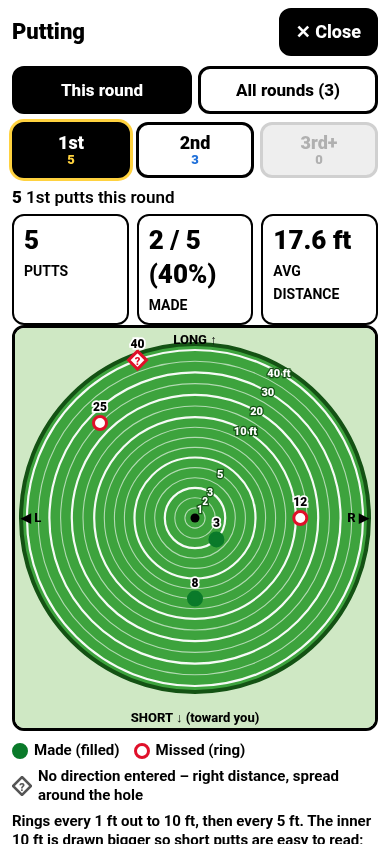
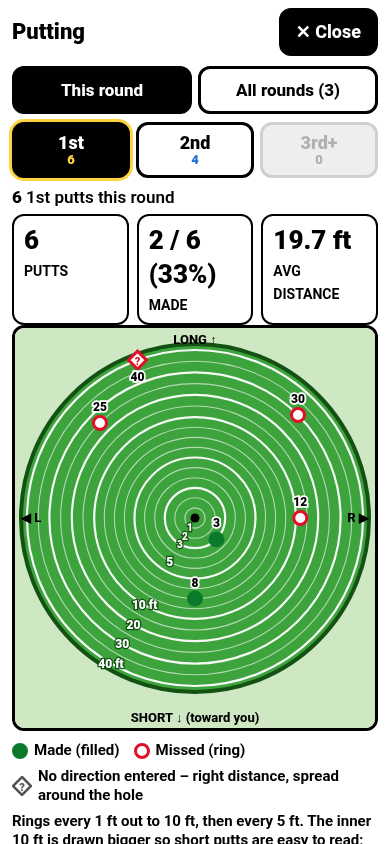
v18: 2nd/3rd+ putts on a 10 ft close-up green (linear 1 ft rings), >10 ft on the edge with ›, dots nudged apart

diff --git a/tests/focused.js b/tests/focused.js
@@ -19,7 +19,8 @@ const BASE = process.env.BASE_URL || 'http://127.0.0.1:8765/', SHOTS = process.e
         { par: 3, finished: true, rows: [R(170, 'tee'), { dist: 8, loc: 'holed', dir: 'short', pen: false }] },
         { par: 4, finished: true, rows: [R(400, 'tee'), R(150, 'fairway'), R(40, 'green'), { dist: 6, loc: 'holed', dir: 'long', pen: false }] },
         { par: 4, finished: true, rows: [R(380, 'tee'), R(140, 'fairway'), { dist: 3, loc: 'holed', dir: 'shortright', pen: false }] },
-        { par: 5, finished: true, rows: [R(520, 'tee'), R(250, 'fairway'), R(90, 'fairway'), { dist: 12, loc: 'green', dir: 'right', pen: false }, { dist: 1.5, loc: 'holed', dir: 'left', pen: false }] }] },
+        { par: 5, finished: true, rows: [R(520, 'tee'), R(250, 'fairway'), R(90, 'fairway'), { dist: 12, loc: 'green', dir: 'right', pen: false }, { dist: 1.5, loc: 'holed', dir: 'left', pen: false }] },
+        { par: 3, finished: true, rows: [R(170, 'tee'), { dist: 30, loc: 'green', dir: 'longright', pen: false }, { dist: 14, loc: 'holed', dir: 'long', pen: false }] }] },
       { v: 3, dv: 2, id: 'rold', date: '2026-10-01T14:00:00.000Z', course: 'Older', baseline: 'pga', holes: [H(4, 400, 5)] }]));
   });
   await page.reload();
@@ -61,36 +62,50 @@ const BASE = process.env.BASE_URL || 'http://127.0.0.1:8765/', SHOTS = process.e
   console.log('✓ delete from History');
   // Putting green
   await page.click('#histlist [data-act="open"][data-id="rputt"]');
-  assert.match(await page.textContent('[data-act="map"][data-v="putt"]'), /^8\s*Putts – tap for map\s*1st putts made 2\/5/);
+  assert.match(await page.textContent('[data-act="map"][data-v="putt"]'), /^10\s*Putts – tap for map\s*1st putts made 2\/6/);
   await page.click('[data-act="map"][data-v="putt"]'); await page.waitForSelector('#puttmap');
   const pb = await page.$$eval('#puttbtns .pnbtn', bs => bs.map(b => [b.getAttribute('data-v'), +b.getAttribute('data-n'), b.disabled, b.classList.contains('sel')]));
-  assert.deepStrictEqual(pb, [['1', 5, false, true], ['2', 3, false, false], ['3', 0, true, false]]);
+  assert.deepStrictEqual(pb, [['1', 6, false, true], ['2', 4, false, false], ['3', 0, true, false]]);
   const dots1 = await page.$$eval('#puttmap .pdot2', ds => ds.map(d => [+d.getAttribute('data-ft'), d.getAttribute('data-made'), d.getAttribute('data-dir'), d.getAttribute('data-kind')]));
-  assert.deepStrictEqual(dots1, [[25, '0', 'longleft', 'dir'], [8, '1', 'short', 'dir'], [40, '0', '', 'nodir'], [3, '1', 'shortright', 'dir'], [12, '0', 'right', 'dir']]);
-  assert.match(await page.textContent('#mapsum'), /^5 1st putts this round/);
-  const st = await page.textContent('#puttstats'); assert.ok(st.includes('2 / 5 (40%)') && st.includes('17.6 ft'), st);
+  assert.deepStrictEqual(dots1, [[25, '0', 'longleft', 'dir'], [8, '1', 'short', 'dir'], [40, '0', '', 'nodir'], [3, '1', 'shortright', 'dir'], [12, '0', 'right', 'dir'], [30, '0', 'longright', 'dir']]);
+  assert.match(await page.textContent('#mapsum'), /^6 1st putts this round/);
+  const st = await page.textContent('#puttstats'); assert.ok(st.includes('2 / 6 (33%)') && st.includes('19.7 ft'), st);
   const bands = await page.$$eval('#puttbands tr[data-band]', ts => ts.map(t => [...t.querySelectorAll('td')].map(d => d.textContent).join('|')));
-  assert.deepStrictEqual(bands, ['0-3 ft|0|–|–', '3-6 ft|1|1/1|100%', '6-10 ft|1|1/1|100%', '10-20 ft|1|0/1|0%', '20+ ft|2|0/2|0%']);
-  const lbl = await page.$$eval('#puttmap .plbl', ts => ts.map(t => t.textContent)); assert.deepStrictEqual(lbl.slice().sort(), ['12', '25', '3', '40', '8'].sort());
+  assert.deepStrictEqual(bands, ['0-3 ft|0|–|–', '3-6 ft|1|1/1|100%', '6-10 ft|1|1/1|100%', '10-20 ft|1|0/1|0%', '20+ ft|3|0/3|0%']);
+  const lbl = await page.$$eval('#puttmap .plbl', ts => ts.map(t => t.textContent)); assert.deepStrictEqual(lbl.slice().sort(), ['12', '25', '3', '40', '8', '30'].sort());
   const geo = await page.evaluate(() => { const c = [...document.querySelectorAll('#puttmap .pring')].map(r => [+r.getAttribute('data-ft'), +r.getAttribute('r')]); return c; });
   const r10 = geo.find(g => g[0] === 10)[1], rmax = Math.max(...geo.map(g => g[1])); assert.ok(Math.abs(r10 / rmax - 0.6) < 0.01, 'inner 10 ft = 60% of radius');
   assert.deepStrictEqual(geo.map(g => g[0]).sort((a, b) => a - b), [1, 2, 3, 4, 5, 6, 7, 8, 9, 10, 15, 20, 25, 30, 35, 40]);
   // the 3 ft putt sits shortright at radius r(3)
   const d3 = await page.$eval('#puttmap .pdot2[data-ft="3"]', c => [+c.getAttribute('cx'), +c.getAttribute('cy')]); const r3 = Math.hypot(d3[0] - 180, d3[1] - 190);
   assert.ok(Math.abs(r3 - 168 * 0.6 * 0.3) < 0.2 && d3[0] > 180 && d3[1] > 190, 'shortright at 3 ft ' + d3);
-  console.log('✓ putting: 1st 5 / 2nd 3 / 3rd+ 0, made 2/5 (40%), avg 17.6 ft, bands, rings 1-10 + every 5 to 40, 10 ft = 60% radius, dots by dir/ft, ? for no dir');
+  console.log('✓ putting: 1st 6 / 2nd 4 / 3rd+ 0, made 2/6 (33%), avg 19.7 ft, bands, rings 1-10 + every 5 to 40, 10 ft = 60% radius, dots by dir/ft, ? for no dir');
   await page.screenshot({ path: SHOTS + '/37-putting-1st.png' });
+  const noOverlap = async (tag) => { const c = await page.$$eval('#puttmap .pdot2', ds => ds.map(d => { const b = d.getBBox(); return [b.x + b.width / 2, b.y + b.height / 2]; }));
+    for (let i = 0; i < c.length; i++) for (let j = 0; j < i; j++) assert.ok(Math.hypot(c[i][0] - c[j][0], c[i][1] - c[j][1]) >= 14, tag + ' dots overlap ' + c[i] + ' / ' + c[j]); return c.length; };
+  await noOverlap('1st');
+  assert.strictEqual(await page.getAttribute('#puttmap', 'data-scale'), 'wide');
   await page.click('#puttbtns [data-v="2"]'); assert.match(await page.getAttribute('#puttbtns [data-v="2"]', 'class'), /sel/);
   const d2 = await page.$$eval('#puttmap .pdot2', ds => ds.map(d => [+d.getAttribute('data-ft'), d.getAttribute('data-made'), d.getAttribute('data-dir')]));
-  assert.deepStrictEqual(d2, [[4, '1', 'right'], [6, '1', 'long'], [1.5, '1', 'left']]); assert.ok((await page.textContent('#puttstats')).includes('3 / 3 (100%)'));
+  assert.deepStrictEqual(d2, [[4, '1', 'right'], [6, '1', 'long'], [1.5, '1', 'left'], [14, '1', 'long']]); assert.ok((await page.textContent('#puttstats')).includes('4 / 4 (100%)'));
+  // close-up: linear 10 ft green, 1 ft rings labelled 1-10, 14 ft at the edge with ›
+  assert.strictEqual(await page.getAttribute('#puttmap', 'data-scale'), 'close');
+  const g2 = await page.$$eval('#puttmap .pring', rs => rs.map(r => [+r.getAttribute('data-ft'), +r.getAttribute('r')]).sort((a, b) => a[0] - b[0]));
+  assert.deepStrictEqual(g2.map(g => g[0]), [1, 2, 3, 4, 5, 6, 7, 8, 9, 10]); g2.forEach(g => assert.ok(Math.abs(g[1] - 16.8 * g[0]) < 0.1, 'linear ' + g));
+  assert.deepStrictEqual(await page.$$eval('#puttmap text.ring', ts => ts.map(t => t.textContent).sort((a, b) => parseInt(a) - parseInt(b))), ['1', '2', '3', '4', '5', '6', '7', '8', '9', '10 ft']);
+  const p4 = await page.$eval('#puttmap .pdot2[data-ft="4"]', c => [+c.getAttribute('cx'), +c.getAttribute('cy')]); assert.ok(Math.abs(p4[0] - (180 + 67.2)) < 0.2 && Math.abs(p4[1] - 190) < 0.2, '4 ft right ' + p4);
+  const p14 = await page.$eval('#puttmap .pdot2[data-ft="14"]', c => [+c.getAttribute('cx'), +c.getAttribute('cy'), c.getAttribute('data-beyond')]); assert.ok(Math.abs(Math.hypot(p14[0] - 180, p14[1] - 190) - 168) < 0.5 && p14[2] === '1', '14 ft at edge ' + p14);
+  assert.ok((await page.$$eval('#puttmap .plbl', ts => ts.map(t => t.textContent))).includes('14›'));
+  await noOverlap('2nd');
   await page.screenshot({ path: SHOTS + '/37b-putting-2nd.png' });
-  console.log('✓ 2nd putts use the row Dir; 3rd+ greyed out (none this round)');
+  console.log('✓ 2nd putts: 10 ft close-up (linear, rings 1-10), 14 ft on edge with ›, row Dir used, no overlapping dots; 3rd+ greyed out (none this round)');
   await page.click('[data-act="mapscope"][data-v="all"]'); await page.click('#puttbtns [data-v="1"]');
+  await page.click('#puttbtns [data-v="2"]'); const n2 = await noOverlap('All 2nd'); await page.screenshot({ path: SHOTS + '/37c-putting-2nd-all.png' }); await page.click('#puttbtns [data-v="1"]');
   const allExp = await page.evaluate(() => { const c = { 1: 0, 2: 0, 3: 0 }; window.__golf.rounds().forEach(r => SG.summarize(r).puttList.forEach(p => c[SG.puttGroup(p.n)]++)); return c; });
   const pbAll = await page.$$eval('#puttbtns .pnbtn', bs => bs.map(b => [+b.getAttribute('data-n'), b.disabled]));
   assert.deepStrictEqual(pbAll, [[allExp[1], false], [allExp[2], false], [allExp[3], !allExp[3]]]);
   assert.strictEqual(await page.locator('#puttmap .pdot2').count(), allExp[1]); assert.match(await page.textContent('#mapsum'), new RegExp('^' + allExp[1] + ' 1st putts in 3 rounds'));
-  await page.click('#puttbtns [data-v="3"]'); assert.strictEqual(await page.locator('#puttmap .pdot2').count(), allExp[3]);
+  await page.click('#puttbtns [data-v="3"]'); assert.strictEqual(await page.locator('#puttmap .pdot2').count(), allExp[3]); assert.strictEqual(await page.getAttribute('#puttmap', 'data-scale'), 'close'); await noOverlap('All 3rd+'); assert.strictEqual(n2, allExp[2]);
   await page.click('[data-act="mapclose"]'); await page.waitForSelector('#puttmap', { state: 'detached' });
   console.log('✓ All rounds: 1st/2nd/3rd+ = ' + [allExp[1], allExp[2], allExp[3]].join('/') + '; Close');
 

diff --git a/app.js b/app.js
@@ -627,37 +627,34 @@
   }
   // Non-linear radius: 0-10 ft takes 60% of the radius (1 ft rings readable); 10 ft..max ring the rest.
   var PG2 = { cx: 180, cy: 190, R: 168 };
-  function puttR(ft, maxFt) { var R10 = PG2.R * 0.6; return ft <= 10 ? R10 * ft / 10 : R10 + (PG2.R - R10) * Math.min(1, (ft - 10) / (maxFt - 10)); }
-  function puttSVG(list) {
-    var mx = list.reduce(function (m, p) { return Math.max(m, p.ft); }, 0), maxFt = Math.min(60, Math.max(20, Math.ceil(mx / 5) * 5));
-    var o = '<svg id="puttmap" viewBox="0 0 360 400" role="img" aria-label="Putts by starting distance">' +
+  function puttSVG(list, group) {
+    var sc = SG.puttScale(group, list), maxFt = sc.maxFt, close = sc.mode === 'close', R = function (ft) { return SG.puttRadius(ft, sc, PG2.R); };
+    var o = '<svg id="puttmap" data-scale="' + sc.mode + '" data-maxft="' + maxFt + '" viewBox="0 0 360 400" role="img" aria-label="Putts by starting distance">' +
       '<rect width="360" height="400" fill="#cfe8c4"/><circle cx="' + PG2.cx + '" cy="' + PG2.cy + '" r="' + (PG2.R + 6) + '" fill="#3da33d" stroke="#145214" stroke-width="4"/>';
-    var rings = []; for (var f = 1; f <= 10; f++) rings.push(f); for (f = 15; f <= maxFt; f += 5) rings.push(f);
-    // Outer labels every 5 ft only when rings are far enough apart, else every 10 ft.
-    var step5 = puttR(15, maxFt) - puttR(10, maxFt) >= 17, lab = { 1: 1, 2: 1, 3: 1, 5: 1, 10: 1 };
-    for (f = 15; f <= maxFt; f += 5) if (step5 || f % 10 === 0) lab[f] = 1;
+    var lab = {}, f;
+    if (close) sc.labels.forEach(function (x) { lab[x] = 1; });
+    else { var step5 = R(15) - R(10) >= 17; [1, 2, 3, 5, 10].forEach(function (x) { lab[x] = 1; }); for (f = 15; f <= maxFt; f += 5) if (step5 || f % 10 === 0) lab[f] = 1; }
     // Ring labels run along the emptiest diagonal so they don't sit on top of putts.
     var la = [300, 240, 60, 120].map(function (a) { return [a, list.filter(function (p) { var d = Math.abs(((SG.DIR_ANGLE[p.dir] == null ? -999 : SG.DIR_ANGLE[p.dir]) - a + 540) % 360 - 180); return d < 35; }).length]; })
       .sort(function (x, y) { return x[1] - y[1]; })[0][0], lc = Math.cos(la * Math.PI / 180), ls = -Math.sin(la * Math.PI / 180), ringBoxes = [];
-    rings.slice().reverse().forEach(function (ft) {
-      var r = puttR(ft, maxFt), major = ft === 3 || ft === 6 || ft === 10 || ft % 10 === 0;
+    sc.rings.slice().reverse().forEach(function (ft) {
+      var r = R(ft), major = close ? ft === 3 || ft === 6 || ft === 10 : ft === 3 || ft === 6 || ft === 10 || ft % 10 === 0;
       o += '<circle class="pring" data-ft="' + ft + '" cx="' + PG2.cx + '" cy="' + PG2.cy + '" r="' + f1(r) + '" fill="none" stroke="#fff" stroke-opacity="' + (major ? '.95' : '.6') + '" stroke-width="' + (major ? 2.2 : 1.1) + '"/>';
-      if (lab[ft] || ft === maxFt) { var lx = PG2.cx + r * lc, ly = PG2.cy + r * ls + 4, txt = ft + (ft === 10 || ft === maxFt ? ' ft' : ''), lw = txt.length * 6;
+      if (lab[ft] || ft === maxFt) { var lx = PG2.cx + r * lc, ly = PG2.cy + r * ls + 4, txt = ft + (ft === 10 || ft === maxFt ? ' ft' : ''), lw = txt.length * 6.5;
         ringBoxes.push([lx - lw / 2, ly - 10, lx + lw / 2, ly + 2]);
-        o += '<text class="ring" x="' + f1(lx) + '" y="' + f1(ly) + '" text-anchor="middle" font-size="' + (ft <= 3 ? 10 : 11) + '" font-weight="900" fill="#fff" stroke="#145214" stroke-width="2.5" paint-order="stroke">' + txt + '</text>'; }
+        o += '<text class="ring" x="' + f1(lx) + '" y="' + f1(ly) + '" text-anchor="middle" font-size="' + (!close && ft <= 3 ? 10 : 12) + '" font-weight="900" fill="#fff" stroke="#145214" stroke-width="2.5" paint-order="stroke">' + txt + '</text>'; }
     });
     o += '<circle cx="' + PG2.cx + '" cy="' + PG2.cy + '" r="4.5" fill="#000"/>';
-    var seen = {}, nd = list.filter(function (p) { return !p.dir; }).length, ndi = 0, dots = '', boxes = ringBoxes.slice(), lbls = '';
-    list.forEach(function (p) {
-      var r = puttR(p.ft, maxFt), ang, nod = !p.dir, cl = p.ft > maxFt;
-      if (nod) { ang = 90 + 360 * ndi / Math.max(1, nd) + 20; ndi++; }
-      else { var key = p.dir + Math.round(r / 10), j = seen[key] = (seen[key] || 0) + 1; ang = SG.DIR_ANGLE[p.dir] + (j - 1) * 9; }
-      var q = pt(PG2.cx, PG2.cy, r, ang), x = f1(q[0]), y = f1(q[1]), col = p.made ? '#0a7a2a' : '#e0102a';
-      var at = ' class="pdot2" data-made="' + (p.made ? 1 : 0) + '" data-ft="' + p.ft + '" data-hole="' + p.hole + '" data-dir="' + (p.dir || '') + '"';
-      if (nod) dots += '<g' + at + ' data-kind="nodir"><path d="M' + x + ' ' + (y - 9) + ' l9 9 -9 9 -9 -9z" fill="' + (p.made ? col : '#fff') + '" stroke="' + col + '" stroke-width="3"/><text x="' + x + '" y="' + (+y + 4.5) + '" text-anchor="middle" font-size="11" font-weight="900" fill="' + (p.made ? '#fff' : col) + '">?</text></g>';
+    var dots = '', boxes = ringBoxes.concat([[130, 3, 230, 21], [80, 380, 280, 398], [0, PG2.cy - 10, 30, PG2.cy + 6], [330, PG2.cy - 10, 360, PG2.cy + 6]]), lbls = '';
+    SG.puttPlace(list, sc, PG2.cx, PG2.cy, PG2.R, 15).forEach(function (d) {
+      var p = d.p, q = [d.x, d.y], x = f1(d.x), y = f1(d.y), col = p.made ? '#0a7a2a' : '#e0102a';
+      var at = ' class="pdot2" data-made="' + (p.made ? 1 : 0) + '" data-ft="' + p.ft + '" data-hole="' + p.hole + '" data-dir="' + (p.dir || '') + '" data-beyond="' + (d.beyond ? 1 : 0) + '"';
+      if (d.nodir) dots += '<g' + at + ' data-kind="nodir"><path d="M' + x + ' ' + (y - 9) + ' l9 9 -9 9 -9 -9z" fill="' + (p.made ? col : '#fff') + '" stroke="' + col + '" stroke-width="3"/><text x="' + x + '" y="' + (+y + 4.5) + '" text-anchor="middle" font-size="11" font-weight="900" fill="' + (p.made ? '#fff' : col) + '">?</text></g>';
       else dots += '<circle' + at + ' data-kind="dir" cx="' + x + '" cy="' + y + '" r="6.5" fill="' + (p.made ? col : '#fff') + '" stroke="' + col + '" stroke-width="3"/>';
       boxes.push([q[0] - 8, q[1] - 9, q[0] + 8, q[1] + 9]);
-      var t = (Math.round(p.ft * 10) / 10) + (cl ? '›' : ''), w = t.length * 6.5 + 4, cand = [[0, -12], [0, 19], [12 + w / 2, 4], [-12 - w / 2, 4], [0, -24], [0, 31]], best = null;
+    });
+    SG.puttPlace(list, sc, PG2.cx, PG2.cy, PG2.R, 15).forEach(function (d) {
+      var p = d.p, q = [d.x, d.y], t = (Math.round(p.ft * 10) / 10) + (d.beyond ? '›' : ''), w = t.length * 7 + 4, cand = [[0, -12], [0, 21], [12 + w / 2, 4], [-12 - w / 2, 4], [0, -24], [0, 33], [14 + w / 2, -10], [-14 - w / 2, -10]], best = null;
       cand.some(function (c) { var cx = Math.max(w / 2, Math.min(360 - w / 2, q[0] + c[0])), ty = q[1] + c[1], b = [cx - w / 2, ty - 10, cx + w / 2, ty + 2];
         if (!best) best = [cx, ty, b]; if (!boxes.some(function (z) { return b[0] < z[2] && b[2] > z[0] && b[1] < z[3] && b[3] > z[1]; })) { best = [cx, ty, b]; return true; } });
       boxes.push(best[2]);
@@ -675,10 +672,10 @@
     return '<div class="pnrow" id="puttbtns" role="group" aria-label="Which putt">' + btns + '</div>' +
       '<p class="mapsum" id="mapsum"><b>' + P.n + '</b> ' + NM[D.group] + (P.n === 1 ? '' : 's') + (all ? ' in ' + D.rounds + ' round' + (D.rounds === 1 ? '' : 's') : ' this round') + '</p>' +
       '<div class="stat-grid" id="puttstats">' + stat('Putts', P.n) + stat('Made', P.n ? P.made + ' / ' + P.n + ' (' + pct(P.pct) + ')' : '–') + stat('Avg distance', P.avgFt == null ? '–' : (Math.round(P.avgFt * 10) / 10) + ' ft') + '</div>' +
-      puttSVG(D.list) +
+      puttSVG(D.list, D.group) +
       '<div class="legend"><span><i class="dot" style="background:#0a7a2a;border-color:#0a7a2a"></i>Made (filled)</span><span><i class="dot" style="background:#fff;border:3px solid #e0102a"></i>Missed (ring)</span>' +
       '<span><svg width="20" height="20" viewBox="0 0 20 20" style="flex:none"><path d="M10 1 l9 9 -9 9 -9 -9z" fill="#fff" stroke="#555" stroke-width="2.5"/><text x="10" y="14.5" text-anchor="middle" font-size="11" font-weight="900" fill="#555">?</text></svg>No direction entered – right distance, spread around the hole</span>' +
-      '<span>Rings every 1 ft out to 10 ft, then every 5 ft. The inner 10 ft is drawn bigger so short putts are easy to read; the label is the distance in ft.</span></div>' +
+      (D.group === '1' ? '<span>Rings every 1 ft out to 10 ft, then every 5 ft. The inner 10 ft is drawn bigger so short putts are easy to read; the label is the distance in ft.</span>' : '<span>Close-up: 10 ft green, a ring every 1 ft (true scale). Putts longer than 10 ft sit on the edge, labelled with › and their real distance.</span>') + '<span>Dots that would land on the same spot are nudged slightly apart.</span></div>' +
       '<h3>Make % by distance</h3><table class="dirtab" id="puttbands"><tr><th>Distance</th><th class="num">Putts</th><th class="num">Made</th><th class="num">Make %</th></tr>' + bandRows + '</table>' +
       '<p class="help muted">Every putt = every stroke hit from the green. 1st / 2nd / 3rd+ = its number on that hole (3rd+ includes 4th and later). Direction = where the ball was vs the hole before the putt: for 1st putts the Dir of the approach (as on the GIR map), for later putts the Dir on that putt\'s row. ' +
       'Bands: 0–3 = under 3 ft, 3–6 = 3 to under 6 ft, and so on. Only finished holes count.</p>';

diff --git a/sg.js b/sg.js
@@ -589,6 +589,35 @@
   calibrate();
   // Putting: bands are lower-inclusive: 0-3 = under 3 ft, 3-6, 6-10, 10-20, 20+
   var PUTT_BANDS = [{ id: '0-3', lo: 0, hi: 3 }, { id: '3-6', lo: 3, hi: 6 }, { id: '6-10', lo: 6, hi: 10 }, { id: '10-20', lo: 10, hi: 20 }, { id: '20+', lo: 20, hi: Infinity }];
+  // Putting-green scale. 1st putts: 'wide' (rings 1-10 ft then every 5 ft to maxFt, inner 10 ft = 60% of R).
+  // 2nd / 3rd+ putts: 'close' – a linear 10 ft green with 1 ft rings; longer putts sit on the edge.
+  function puttScale(group, list) {
+    if (group !== '1') return { mode: 'close', maxFt: 10, rings: [1, 2, 3, 4, 5, 6, 7, 8, 9, 10], labels: [1, 2, 3, 4, 5, 6, 7, 8, 9, 10] };
+    var mx = (list || []).reduce(function (m, p) { return Math.max(m, p.ft); }, 0), maxFt = Math.min(60, Math.max(20, Math.ceil(mx / 5) * 5)), rings = [], f;
+    for (f = 1; f <= 10; f++) rings.push(f); for (f = 15; f <= maxFt; f += 5) rings.push(f);
+    return { mode: 'wide', maxFt: maxFt, rings: rings };
+  }
+  function puttRadius(ft, sc, R) {
+    ft = Math.max(0, Math.min(ft, sc.maxFt));
+    if (sc.mode === 'close') return R * ft / 10;
+    var R10 = R * 0.6; return ft <= 10 ? R10 * ft / 10 : R10 + (R - R10) * (ft - 10) / (sc.maxFt - 10);
+  }
+  // Place putts: angle from Dir (no Dir = spread evenly), radius from distance; then nudge sideways
+  // (alternating ±angle, then slightly outward) until no two dots are closer than minD px.
+  function puttPlace(list, sc, cx, cy, R, minD) {
+    minD = minD || 15; var nd = list.filter(function (p) { return !p.dir; }).length, ndi = 0, out = [];
+    list.forEach(function (p) {
+      var r0 = puttRadius(p.ft, sc, R), a0 = p.dir ? DIR_ANGLE[p.dir] : 110 + 360 * (ndi++) / Math.max(1, nd), best = null;
+      for (var k = 0; k < 240 && !best; k++) {
+        var step = Math.ceil(k / 2) * (k % 2 ? 1 : -1), r = Math.max(4, r0 + Math.floor(k / 12) * 3), a = a0 + step * Math.max(6, (minD / Math.max(r, 8)) * 57.3),
+          t = a * Math.PI / 180, x = cx + r * Math.cos(t), y = cy - r * Math.sin(t);
+        if (!out.some(function (q) { return Math.hypot(q.x - x, q.y - y) < minD; })) best = { x: x, y: y };
+      }
+      if (!best) { var t2 = a0 * Math.PI / 180; best = { x: cx + r0 * Math.cos(t2), y: cy - r0 * Math.sin(t2) }; }
+      out.push({ p: p, x: best.x, y: best.y, beyond: p.ft > sc.maxFt, nodir: !p.dir });
+    });
+    return out;
+  }
   function puttGroup(n) { return n >= 3 ? '3' : String(n); } // 3 = "3rd+" (3rd, 4th, ...)
   function puttStats(list) {
     var made = list.filter(function (p) { return p.made; }).length;
@@ -637,7 +666,7 @@
     return incoming.filter(function (r) { return byId[r.id] && JSON.stringify(byId[r.id]) !== JSON.stringify(r); });
   }
 
-  var api = { PUTT_BANDS: PUTT_BANDS, puttGroup: puttGroup, puttStats: puttStats, makeBackup: makeBackup, parseBackup: parseBackup, mergeRounds: mergeRounds, conflictsOf: conflictsOf, PROX_LIES: PROX_LIES, lieGroup: lieGroup, proxByLie: proxByLie, proxWarnings: proxWarnings, PROX_BUCKETS: PROX_BUCKETS, inBucket: inBucket, roundYd: roundYd, proxStats: proxStats, reachedGreen: reachedGreen, PIN_GRID: PIN_GRID, PIN_NAME: PIN_NAME, normPin: normPin, DIR8: DIR8, DIR_NAME: DIR_NAME, DIR_ANGLE: DIR_ANGLE, normDir: normDir, expected: expected, expectedPGA: expectedPGA, BASELINES: BASELINES, baseline: function (id) { return BL[id] || BL.pga; },
+  var api = { puttScale: puttScale, puttRadius: puttRadius, puttPlace: puttPlace, PUTT_BANDS: PUTT_BANDS, puttGroup: puttGroup, puttStats: puttStats, makeBackup: makeBackup, parseBackup: parseBackup, mergeRounds: mergeRounds, conflictsOf: conflictsOf, PROX_LIES: PROX_LIES, lieGroup: lieGroup, proxByLie: proxByLie, proxWarnings: proxWarnings, PROX_BUCKETS: PROX_BUCKETS, inBucket: inBucket, roundYd: roundYd, proxStats: proxStats, reachedGreen: reachedGreen, PIN_GRID: PIN_GRID, PIN_NAME: PIN_NAME, normPin: normPin, DIR8: DIR8, DIR_NAME: DIR_NAME, DIR_ANGLE: DIR_ANGLE, normDir: normDir, expected: expected, expectedPGA: expectedPGA, BASELINES: BASELINES, baseline: function (id) { return BL[id] || BL.pga; },
     CALIB_ROUND: CALIB_ROUND, catLoss: catLoss, analyzeHole: analyzeHole, summarize: summarize,
     rowsToShots: rowsToShots, shotsToRows: shotsToRows, migrateV2Rows: migrateV2Rows, v1ToRows: v1ToRows, holeYards: holeYards,
     rowUnit: rowUnit, lieOf: lieOf, distOf: distOf, rowStrokes: rowStrokes, isPenalty: isPenalty,

diff --git a/tests/sg.test.js b/tests/sg.test.js
@@ -624,3 +624,17 @@ test('putts: every stroke from the green, numbered per hole, start ft, made, dir
   assert.strictEqual(A.bands.reduce((t, b) => t + b.n, 0), A.n, 'bands add up');
   assert.deepStrictEqual(SG.puttStats([{ ft: 3, made: true }, { ft: 2.99, made: false }, { ft: 10, made: true }, { ft: 20, made: false }]).bands.map(b => b.n), [1, 1, 0, 1, 1], 'lower-inclusive band edges');
 });
+
+test('putting scale: 1st putts wide (10 ft = 60%), 2nd/3rd+ close-up linear 10 ft with edge clamp; placement keeps dots apart', () => {
+  const W = SG.puttScale('1', [{ ft: 33 }]); assert.deepStrictEqual([W.mode, W.maxFt], ['wide', 35]); assert.strictEqual(SG.puttRadius(10, W, 100), 60);
+  for (const g of ['2', '3']) {
+    const C = SG.puttScale(g, [{ ft: 40 }]); assert.deepStrictEqual([C.mode, C.maxFt, C.rings, C.labels], ['close', 10, [1, 2, 3, 4, 5, 6, 7, 8, 9, 10], [1, 2, 3, 4, 5, 6, 7, 8, 9, 10]]);
+    assert.deepStrictEqual([1, 2.5, 10, 14, 40].map(f => SG.puttRadius(f, C, 100)), [10, 25, 100, 100, 100], 'linear, beyond 10 ft at the edge');
+  }
+  const C = SG.puttScale('2', []), L = [{ ft: 2, dir: 'short' }, { ft: 2, dir: 'short' }, { ft: 2, dir: 'short' }, { ft: 2.2, dir: 'short' }, { ft: 1, dir: '' }, { ft: 1, dir: '' }, { ft: 18, dir: 'long' }, { ft: 20, dir: 'long' }];
+  const P = SG.puttPlace(L, C, 180, 190, 168, 15);
+  for (let i = 0; i < P.length; i++) for (let j = 0; j < i; j++) assert.ok(Math.hypot(P[i].x - P[j].x, P[i].y - P[j].y) >= 15, 'dots ' + i + '/' + j + ' overlap');
+  assert.ok(Math.abs(P[0].y - (190 + 33.6)) < 1e-9 && Math.abs(P[0].x - 180) < 1e-9, 'first dot exactly at 2 ft short');
+  assert.deepStrictEqual(P.map(p => p.beyond), [false, false, false, false, false, false, true, true]);
+  P.slice(0, 4).forEach(p => assert.ok(Math.abs(Math.hypot(p.x - 180, p.y - 190) - 33.6) < 6, 'jitter stays close to 2 ft'));
+});

diff --git a/sw.js b/sw.js
@@ -1,5 +1,5 @@
 // Offline support: cache the whole app on install, serve cache-first.
-const CACHE = 'golf-sg-v17';
+const CACHE = 'golf-sg-v18';
 const ASSETS = ['./', './index.html', './styles.css', './sg.js', './app.js',
   './manifest.webmanifest', './icons/apple-touch-icon.png', './icons/icon-192.png',
   './icons/icon-512.png', './icons/icon-512-maskable.png'];
